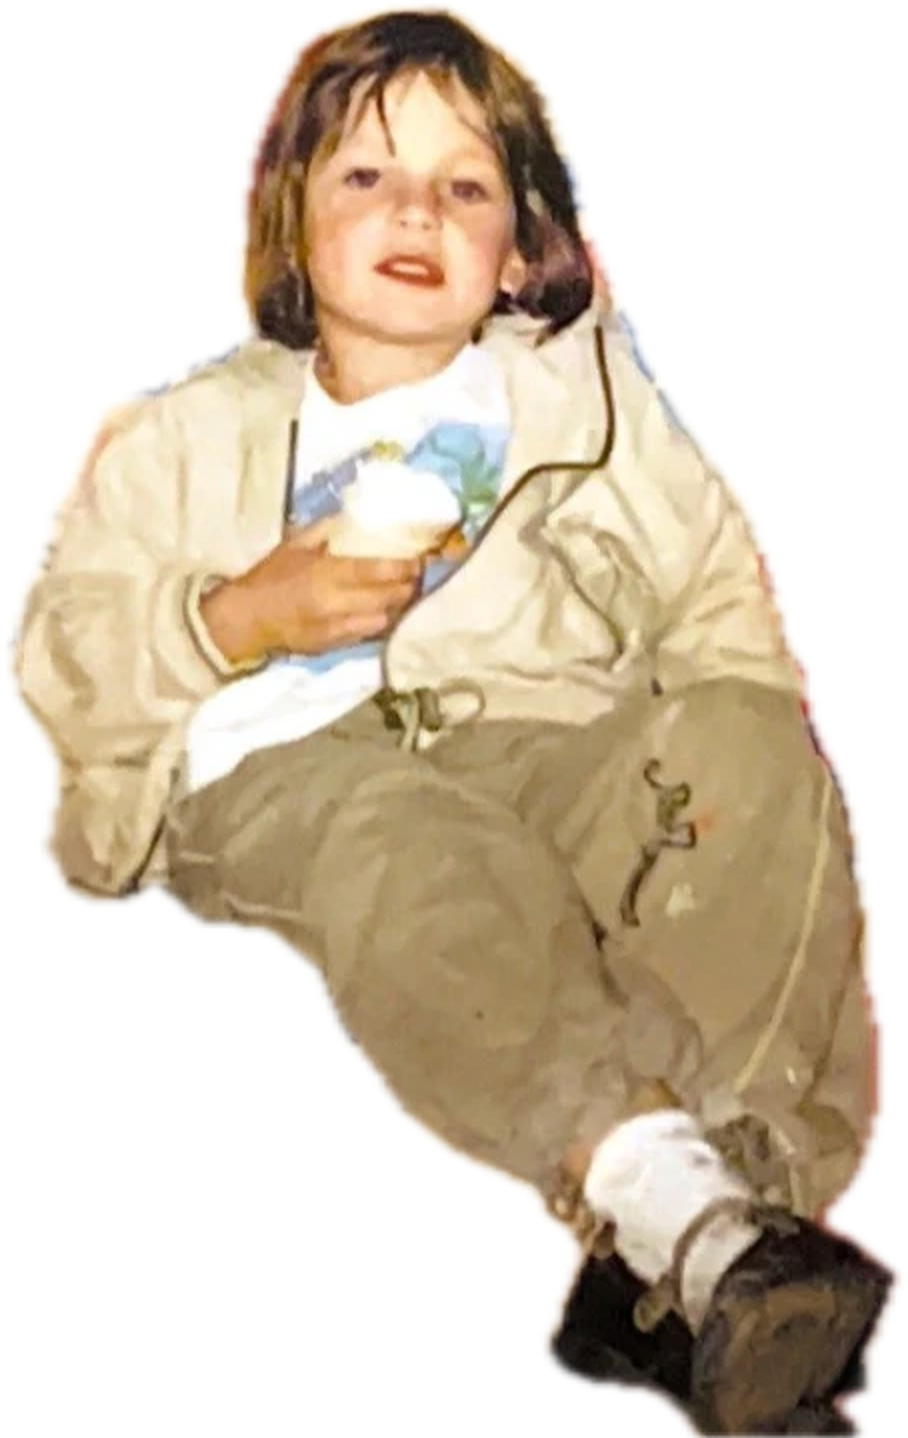
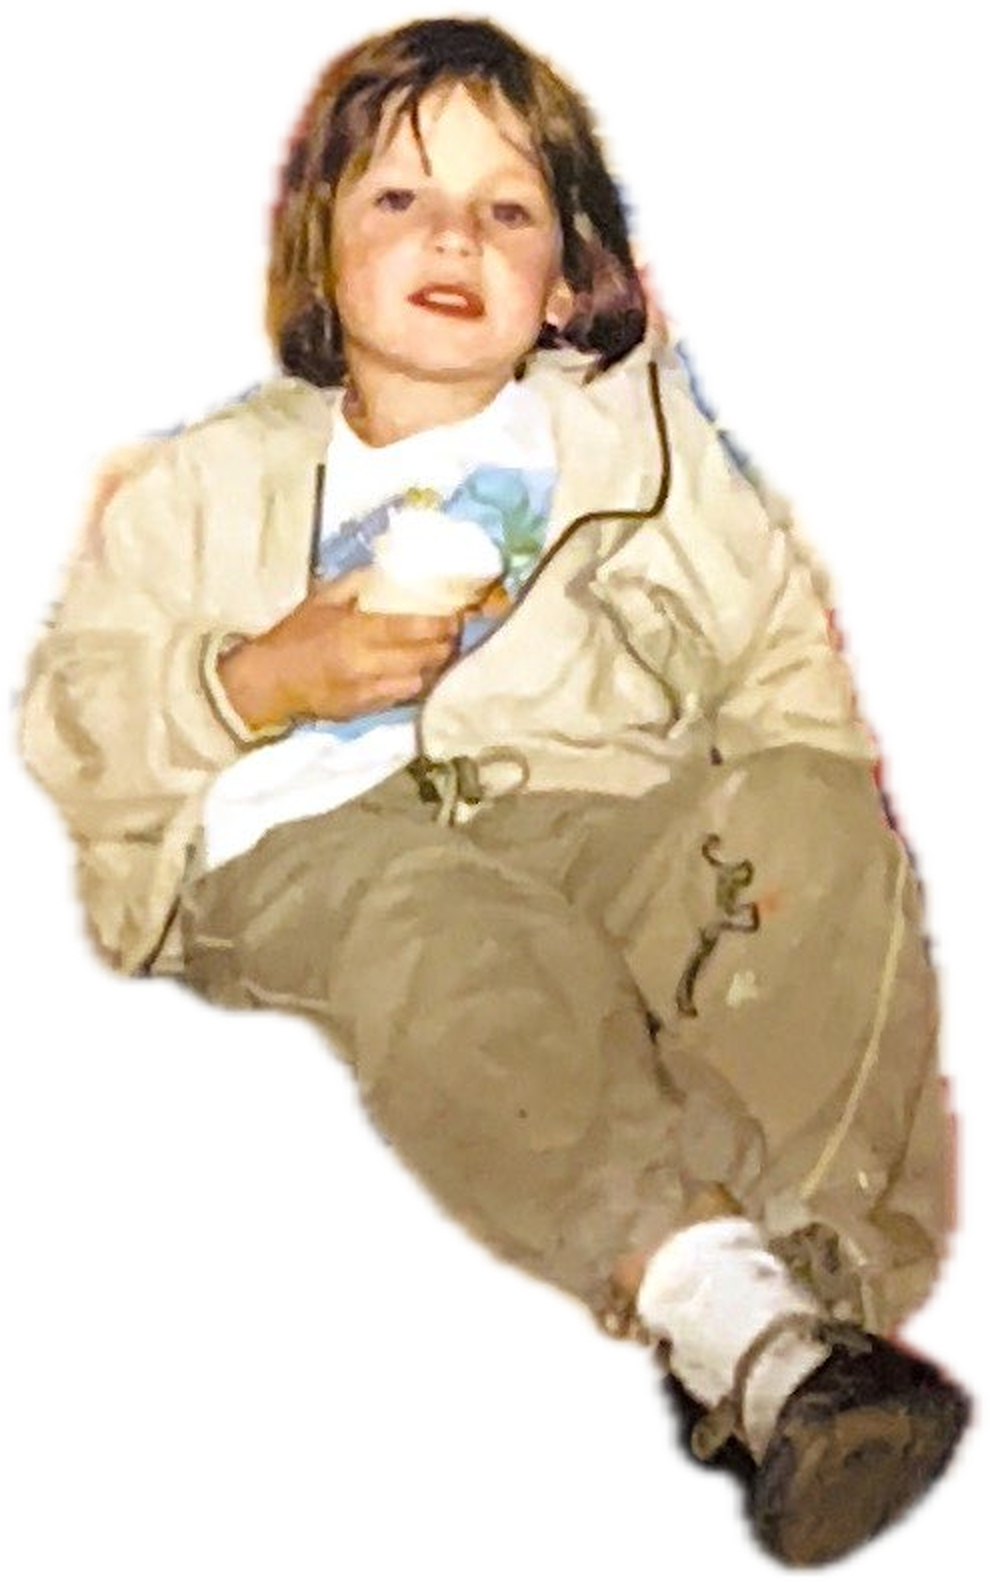
Use a sharper cutout from the original scan

diff --git a/index.html b/index.html
@@ -33,9 +33,9 @@ h1{font-size:inherit;font-weight:inherit}
 .meta{display:flex;justify-content:space-between;gap:1rem;margin:1.1rem 0 0}
 .meta span:nth-child(2){text-align:center}
 .meta span:last-child{text-align:right}
-.photo{position:relative;width:68%;align-self:center;margin:6rem 0 -5%}
+.photo{position:relative;width:68%;align-self:center;margin:6rem 0 -3%}
 .photo img{width:100%;height:auto;display:block}
-.hat{position:absolute;width:30%;left:29%;top:-18%;transform:rotate(-9deg)}
+.hat{position:absolute;width:30%;left:30%;top:-14.5%;transform:rotate(-9deg)}
 .over{position:relative;z-index:1}
 .lead{font-size:1.2rem;line-height:1.4;margin:0 0 1.5rem;max-width:32ch}
 .btn{font:500 1rem var(--font);text-transform:uppercase;letter-spacing:.06em;background:var(--rosso);color:var(--carta);border:0;border-radius:999px;padding:1.05rem 2.2rem;cursor:pointer;align-self:flex-start;transition:transform .15s}
@@ -86,7 +86,7 @@ input[type=text]:focus{outline:0;border-bottom-color:var(--rosso)}
       <span>Dalle<br>20:00</span>
     </div>
     <div class="photo">
-      <img src="irina.png" width="908" height="1438" alt="Irina da piccola con un gelato in mano">
+      <img src="irina.png" width="990" height="1582" alt="Irina da piccola con un gelato in mano">
       <svg class="hat" id="cappellino" viewBox="0 0 100 120" aria-hidden="true">
         <path d="M50 14 12 104q38 14 76 0z" fill="#f8c6c4"/>
         <path d="M41 36q9 5 18 0M33 56q17 8 34 0M25 76q25 10 50 0" fill="none" stroke="#fff" stroke-width="4" stroke-linecap="round" opacity=".8"/>
